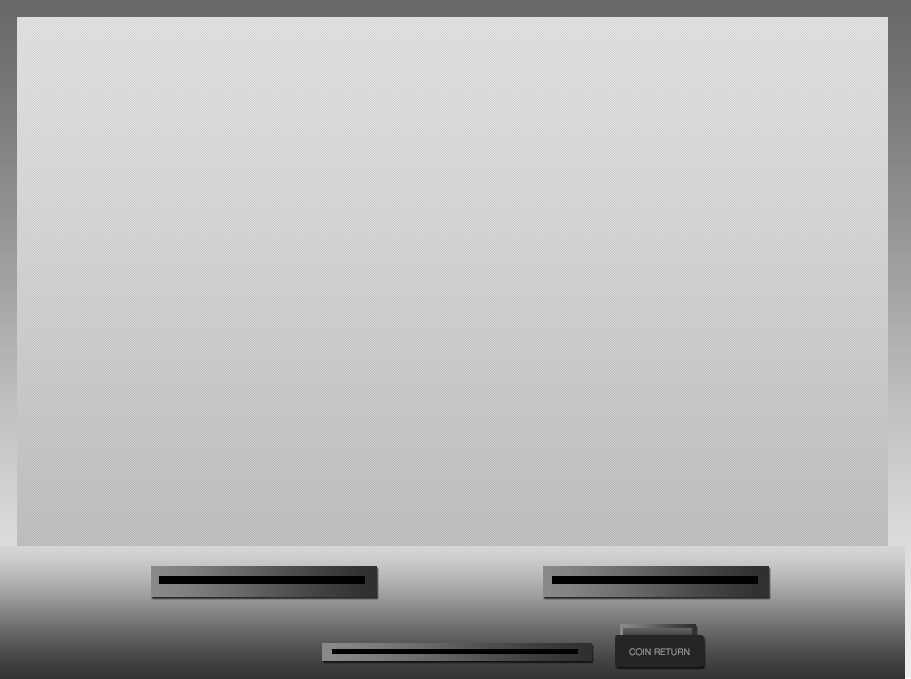
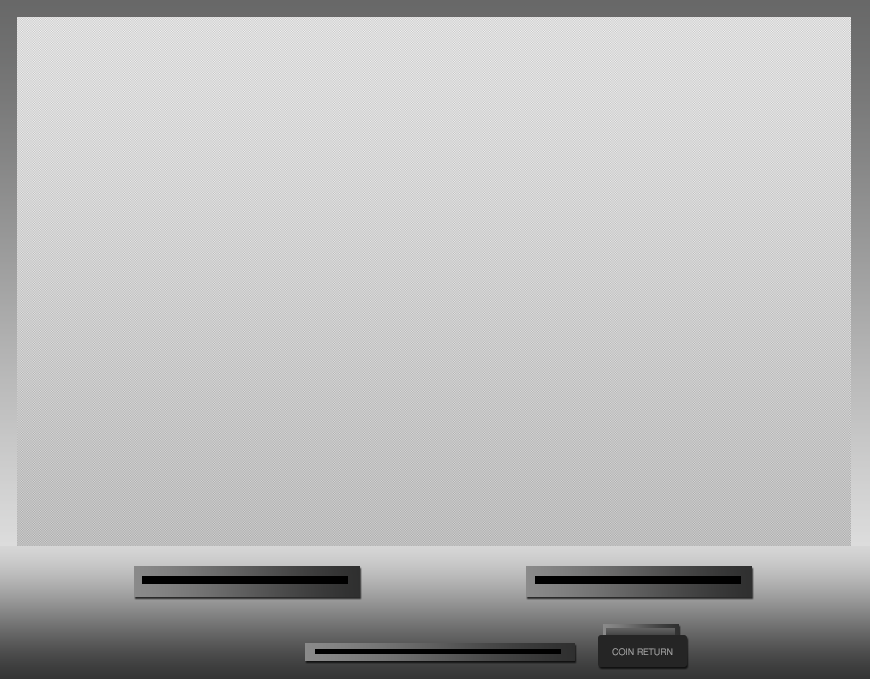
Reduced width of hardware and adjusted positioning to fit on tablet

diff --git a/src/scss/style.scss b/src/scss/style.scss
@@ -224,7 +224,7 @@ $page--actions-height: 105px;
 .start--card-buttons {
     float: left;
     position: relative;
-    left: -215px;
+    left: -195px;
     top: -72px;
 }
 
@@ -254,7 +254,7 @@ $page--actions-height: 105px;
     color: #fff;
     float: left;
     position: relative;
-    left: -140px;
+    left: -120px;
 }
 
 .start--cash-button-instr {
@@ -264,7 +264,7 @@ $page--actions-height: 105px;
     color: #fff;
     float: right;
     position: relative;
-    right: -140px;
+    right: -120px;
 }
 
 /**************************************
@@ -349,7 +349,7 @@ $prepay--amount-height: 220px;
 .cash-input--buttons {
     float: right;
     position: relative;
-    right: -215px;
+    right: -195px;
     top: -126px;
 }
 

diff --git a/public/css/style.css b/public/css/style.css
@@ -180,7 +180,7 @@ body {
 .start--card-buttons {
   float: left;
   position: relative;
-  left: -215px;
+  left: -195px;
   top: -72px; }
 
 .start--card-buttons .prepay--button {
@@ -206,7 +206,7 @@ body {
   color: #fff;
   float: left;
   position: relative;
-  left: -140px; }
+  left: -120px; }
 
 .start--cash-button-instr {
   font-size: 10px;
@@ -215,7 +215,7 @@ body {
   color: #fff;
   float: right;
   position: relative;
-  right: -140px; }
+  right: -120px; }
 
 /**************************************
  Zip Code Page
@@ -286,7 +286,7 @@ body {
 .cash-input--buttons {
   float: right;
   position: relative;
-  right: -215px;
+  right: -195px;
   top: -126px; }
 
 .prepay--button {
